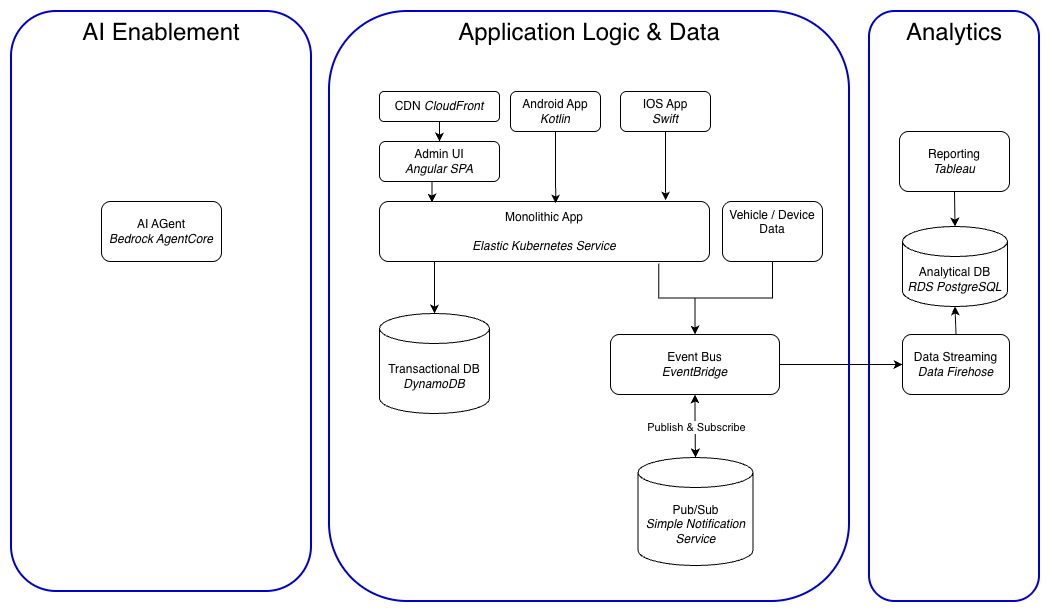
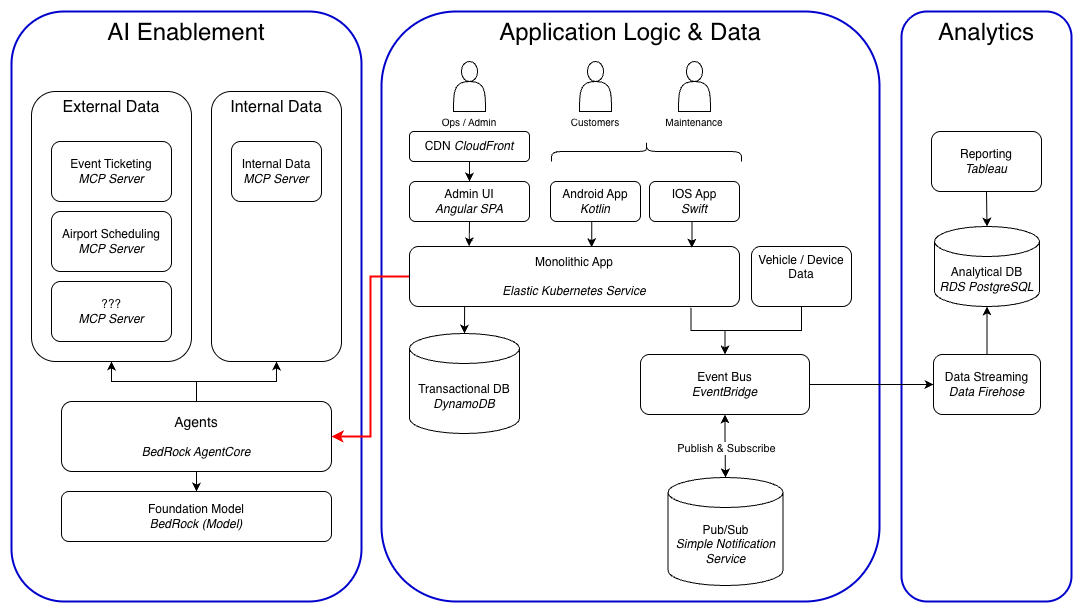
wip readme and diagrams

diff --git a/README.md b/README.md
@@ -52,7 +52,8 @@ There are a few areas where extra care is needed and this must be addressed in t
 The new system, "*Hermes*", has the critical technology components depicted in the [diagram](#diagram-of-the-hermes-top-level-architecture) below. Where applicable we have shown
 both a component name or tag as well as a technology we intend to use to support the element. Decisions which seem
 like they may be debatable are covered in the following section for [Architecture Decision Records](#architecture-decision-records). The
-architecture has 3 key areas, to be described individually below.
+architecture has 3 key areas: Application, Analytics and AI. These are described below and build on each other to 
+some degree. Vehicle and [device technology](#key-elements-of-the-device-communications-architecture) is covered in a later section.
 
 The architecture relies upon running in the AWS public cloud ([ADR](adr/ADR-Cloud.md)). Starting in the Application Logic and Data boundary we have a browser-based UI for internal use by operations 
 and administrators and native mobile apps for customers and mobile support team on both Android and iOS. These UIs call into the business logic 
@@ -77,7 +78,13 @@ primarily by a handoff from EventBridge to [Data Firehose](https://aws.amazon.co
 data loads (very small ones, this is event-based primarily) into the analytics store. Tableau is to be used for
 reporting and visualization, this is one of the areas we feel it worth it to invest in a more expensive product.
 
-
+The architecture for AI usage is highly dependent on AWS services. BedRock AgentCore is to be used to host and manage 
+the actual agents, while MCP servers are heavily used for access to key data sources. The most important
+element of this area is the agents in BedRock. These agents are using foundation models as well as data via 
+MCP servers (some of which may be forward-looking, this needs further research) to make decisions about strategic questions like
+the current pricing to use for a given vehicle type and area, how to manage and balance inventory across hub areas
+in order to meet demand and increase the occupancy rate, to tactical work such as evaluating damage and cleanup needed 
+for the individual vehicles.
 
 ### Diagram of the Hermes Top-Level Architecture
 ![Top-Level Architecture Diagram](diagrams/top-level-architecture.png)
@@ -88,23 +95,41 @@ reporting and visualization, this is one of the areas we feel it worth it to inv
 * All vehicles have GPS receivers built in and location data will be transmitted home
 * GPS is unidirectional, the cell signal is required in order to receive data and in the event that there is no signal the onboard cellular transmission device will record and store location data to be transmitted once signal resumes. 
 * Any vehicle which remains out of signal range for a configurable amount of time will be flagged for review with the intent to build data around areas with consistent lack of  service and determine whether such areas should be permitted
-* All diagnostic information evailable from the cars and vans will be transmitted home
+* All diagnostic information available from the cars and vans will be transmitted home
 * Scooters and bikes will have battery status data sent home via the customer transmitter
 
 
 ## How does the Architecture Meet the Customer Complaints?
 
 ### C1: Vehicles are not where they are supposed to be at pickup
-TBD
+(WIP) The architecture provides for detailed and accurate inventory information via the application as well as AI 
+assistance for inventory demand prediction. Damage to vehicles becomes predictable over time, but will always have some 
+percentage which is less predictable (e.g. percentage of vehicles returned damaged can be determined and predicted within
+a range as an average, but we could have a significantly worse day than usual due to outside forces such as weather). 
+Ultimately we will rely on a combination of known scheduled rentals, damage rates by location, and a mbile workforce to 
+relocate vehicles in order to provide expected inventory at each pickup location. The AI agent will build in pricing
+incentives for returns to locations needing inventory to help reduce the number of staff needed.
 
 ### C2: Vehicles are dirty or need maintenance when they are picked up for use by customers
-TBD
+(WIP) A typical approach these days is to have customers take pictures of the vehicle as it is returned and the customer 
+submits them as part of the return process. We feel that this trades one problem customer satisfaction for another since
+that puts a burden on the customer which does not bring any value to them to offset the ask. Instead we propose funneling
+cars return through an area which photographs the vehicles' exterior and to some degree interior then uses an AI agent 
+to compare before and after photos to assess maintenance needs. Each return will be scored for cleanliness, and this score will 
+be stored with the customer's record for future use.
 
 ### C3: Vehicles are not fully charged at pickup
-TBD
+(WIP) The same process which photographs the vehicle during a return will also check the battery status and rank the vehicle 
+in terms of how long a charge back to full will take.  This will be tied in to the inventory and location charging systems
+ so it is aware of the scheduling system is aware of when inventory is expected to be available and can flag problematic
+situations such as inventory dropping below the already scheduled demand. Assuming all batteries will need some amount 
+of charging, the vehicles will be sorted by the determined rank and sent to the associated charging area by on-site staff.
 
 ### C4: Customers are not relying on the service for regular travel
-TBD
+The easiest levers on increasing the addiction to the service seem to lead to enshittification which we do not want to 
+build into the architecture. Our initial focus would be on location analytics and ensuring we can provide data to support
+demand predictions for regular travel (versus spikes) and support marketing or advertising efforts in the areas with the 
+least usage and a large market.
 
 ## Architecture Decision Records
 - [Infrastructure Hosting](adr/ADR-Cloud.md)
@@ -139,3 +164,9 @@ not lost as the company grows and the legal and regulatory environment changes.
 * Loss prevention
 * Criminal usage detection
 * Use of satellite communications instead of cellular networks if we see consistent use while out of service
+
+## Final Thoughts
+This submission is very much a first draft or pass at an architecture, with important areas left to be filled in. 
+The team has been pulled away due to production issues (AWS outage anyone? Sure, we'll take another) and in some cases
+pulled off entirely. We hope to fill in more if we are selected to proceed to the next phase but for now this will have 
+to do.

diff --git a/adr/ADR-Data-Pipeline.md b/adr/ADR-Data-Pipeline.md
@@ -1,13 +1,16 @@
 # Analytics: Tooling for the Data Pipeline
 
 ## Context and Problem Statement
-
-{Describe the context and problem statement, e.g., in free form using two to three sentences or in the form of an illustrative story. You may want to articulate the problem in form of a question and add links to collaboration boards or issue management systems.}
+There are many ways to load OLTP data into an analytics data store, which do we propose using? This is not an area we 
+feel the need to spend a lot of money on, but we do want to avoid problems we have seen before such as stale data. 
+Discussion of formalizing the source of truth for data, and even a basic dimensional model of data and how we would 
+expand it over time or deal with self-service are out of scope due to time constraints.
 
 ## Considered Options
 
-* {title of option 1}
-* {title of option 2}
+* No data pipelines; replication of OLTP data to an operational data store is enough and we get rolling with the resulting limited reporting capabilities
+* Traditional ETL from OLTP + unstructured data to a star schema
+* Traditional ETL from OLTP to star schema + unstructured to S3 and a mix of RedShift 
 * {title of option 3}
 * … <!-- numbers of options can vary -->
 
